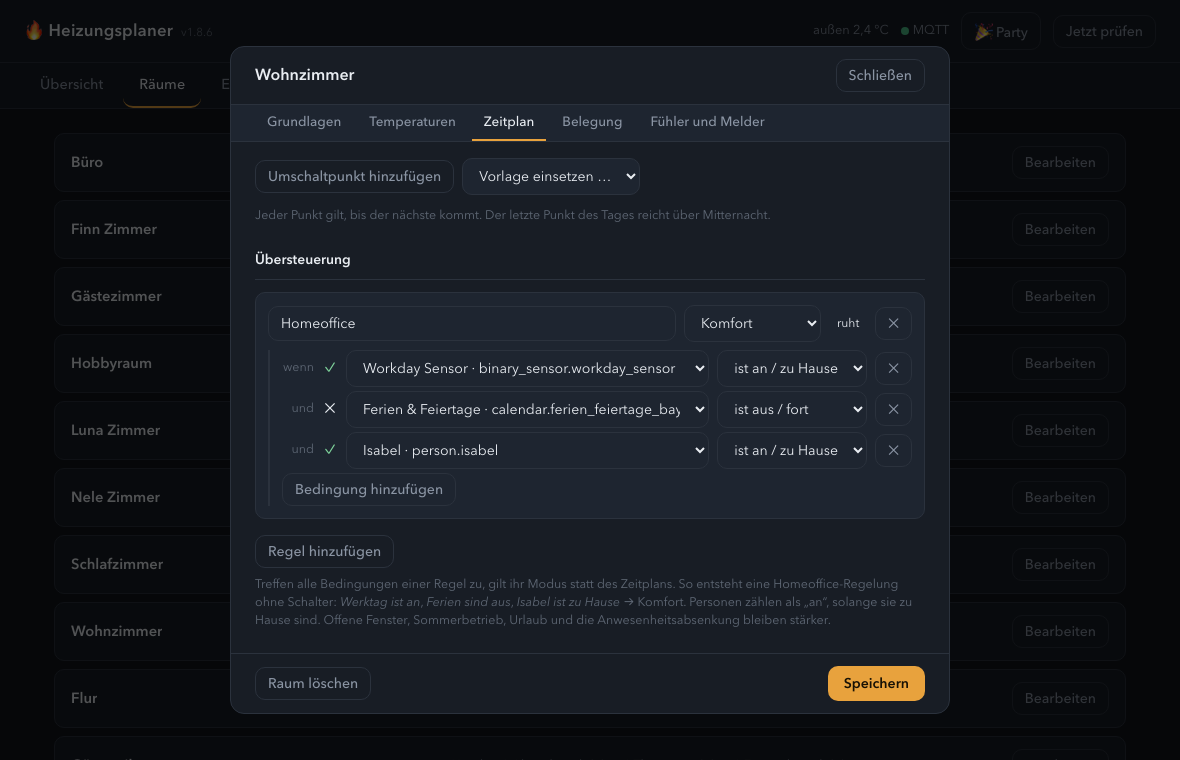
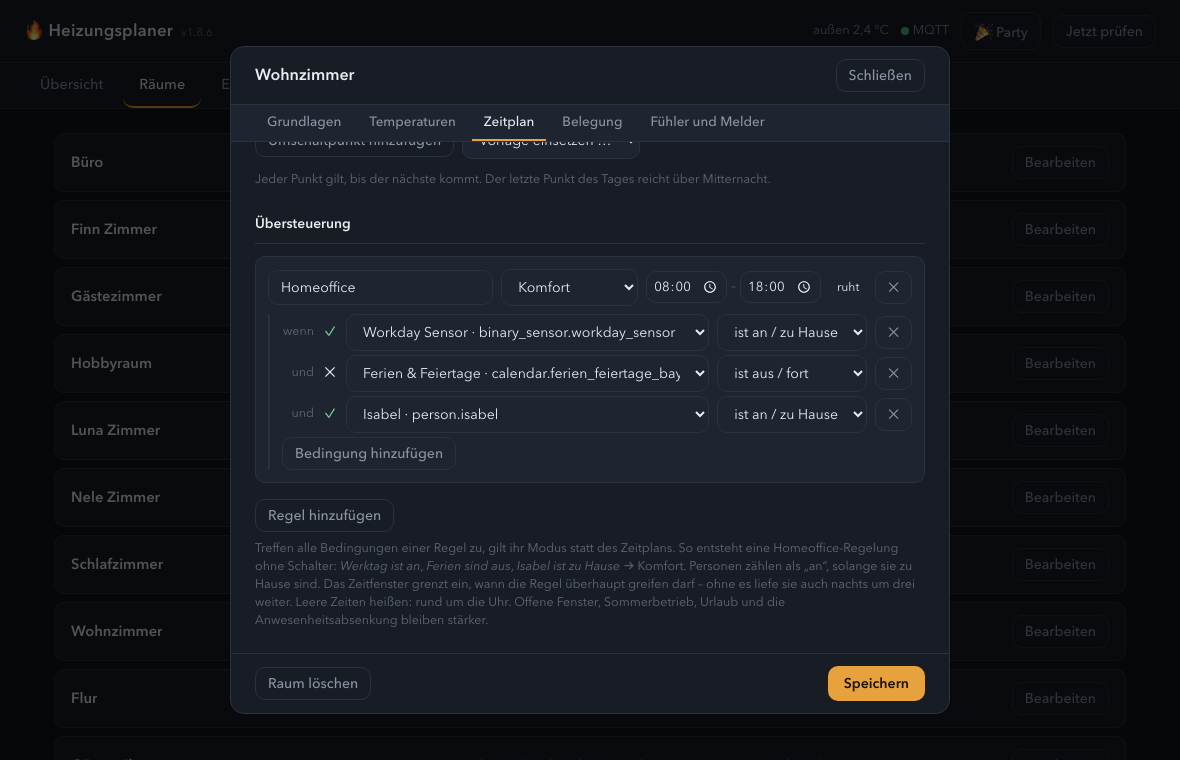
Zeitfenster für Übersteuerungsregeln
„Werktag, keine Ferien, Isabel ist zu Hause“ trifft auch nachts um drei zu.
Die Homeoffice-Regel hätte das Wohnzimmer damit rund um die Uhr auf Komfort
gehalten und die Nachtabsenkung ausgehebelt – ein Fehler im Entwurf, kein
Randfall.

Jede Regel bekommt deshalb ein Zeitfenster. Leer heißt rund um die Uhr, und
ein Fenster darf über Mitternacht reichen, wie ein Zeitplanpunkt auch. Neue
Regeln werden mit 08:00–18:00 vorgeschlagen.

Hält allein das Fenster eine Regel zurück, sagt sie das: „ruht – außerhalb
der Zeit“. Greift sie, nennt die Begründung das Ende: „Homeoffice (bis 18:00
Uhr) – komfort statt Zeitplan“.

diff --git a/heizungsplaner/frontend/index.html b/heizungsplaner/frontend/index.html
@@ -128,6 +128,8 @@
   .regel-zeile select:first-of-type{flex:1 1 auto; min-width:0; width:auto}
   .regel-zeile select + select{flex:none; width:auto}
   .regel-zeile button{flex:none}
+  .regel-zeit{display:inline-flex; align-items:center; gap:4px}
+  .regel-zeit input[type=time]{width:auto; padding:5px 6px; font-size:.82rem}
   .regel-lage{font-size:.76rem; padding:2px 8px; border-radius:999px;
     white-space:nowrap}
   .regel-lage.greift{background:rgba(90,190,120,.16); color:#7fd39b}
@@ -725,8 +727,11 @@
           einer Regel zu, gilt ihr Modus statt des Zeitplans. So entsteht eine
           Homeoffice-Regelung ohne Schalter: <em>Werktag ist an</em>, <em>Ferien
           sind aus</em>, <em>Isabel ist zu Hause</em> → Komfort. Personen zählen
-          als „an“, solange sie zu Hause sind. Offene Fenster, Sommerbetrieb,
-          Urlaub und die Anwesenheitsabsenkung bleiben stärker.</div>
+          als „an“, solange sie zu Hause sind. Das Zeitfenster grenzt ein, wann
+          die Regel überhaupt greifen darf – ohne es liefe sie auch nachts um
+          drei weiter. Leere Zeiten heißen: rund um die Uhr. Offene Fenster,
+          Sommerbetrieb, Urlaub und die Anwesenheitsabsenkung bleiben
+          stärker.</div>
       </div>
     </div>
 
@@ -1660,6 +1665,23 @@ function uebersteuerungZeichnen() {
     modus.value = regel.modus || 'komfort';
     modus.onchange = () => { regel.modus = modus.value; };
 
+    // Zeitfenster: leer heißt rund um die Uhr. Ohne das liefe eine
+    // Homeoffice-Regel auch nachts weiter – die Bedingungen treffen ja zu.
+    const zeitraum = document.createElement('span');
+    zeitraum.className = 'regel-zeit';
+    const von = document.createElement('input');
+    von.type = 'time'; von.value = regel.von || '';
+    von.title = 'ab wann die Regel greift – leer: rund um die Uhr';
+    const bis = document.createElement('input');
+    bis.type = 'time'; bis.value = regel.bis || '';
+    bis.title = 'bis wann die Regel greift';
+    von.onchange = () => { regel.von = von.value; uebersteuerungZeichnen(); };
+    bis.onchange = () => { regel.bis = bis.value; uebersteuerungZeichnen(); };
+    const strich = document.createElement('span');
+    strich.className = 'notiz';
+    strich.textContent = '–';
+    zeitraum.append(von, strich, bis);
+
     const weg = document.createElement('button');
     weg.className = 'leise';
     weg.textContent = '✕';
@@ -1670,10 +1692,17 @@ function uebersteuerungZeichnen() {
     const lage = document.createElement('span');
     lage.className = 'regel-lage';
     const stand = (regel.wenn || []).map(erfuellt);
-    const greift = stand.length && stand.every(x => x === true);
+    const jetztHM = new Date().toTimeString().slice(0, 5);
+    const imFenster = !regel.von || !regel.bis
+      || (regel.von <= regel.bis
+          ? (regel.von <= jetztHM && jetztHM < regel.bis)
+          : (jetztHM >= regel.von || jetztHM < regel.bis));
+    const greift = stand.length && stand.every(x => x === true) && imFenster;
     lage.classList.add(greift ? 'greift' : 'ruht');
-    lage.textContent = greift ? 'greift gerade' : 'ruht';
-    kopf.append(bezeichnung, modus, lage, weg);
+    lage.textContent = greift ? 'greift gerade'
+      : (!imFenster && stand.every(x => x === true) ? 'ruht – außerhalb der Zeit'
+                                                    : 'ruht');
+    kopf.append(bezeichnung, modus, zeitraum, lage, weg);
     karte.appendChild(kopf);
 
     const wenn = document.createElement('div');
@@ -1951,6 +1980,7 @@ $('btn-neuer-raum').onclick = () => raumOeffnen(null);
 $('btn-uebersteuerung-neu').onclick = () => {
   const erster = (entitaeten.schalter || [])[0];
   uebersteuerungEntwurf.push({name: '', modus: 'komfort',
+                              von: '08:00', bis: '18:00',
                               wenn: [{entity: erster ? erster.entity_id : '',
                                       zustand: 'an'}]});
   uebersteuerungZeichnen();

diff --git a/heizungsplaner/backend/regelung.py b/heizungsplaner/backend/regelung.py
@@ -182,7 +182,22 @@ def fenster_offen(raum: dict, states_index: dict, rz: dict, ist: float | None,
     return False, "", hinweis
 
 
-def _uebersteuerung(raum: dict, states_index: dict) -> dict | None:
+def _im_fenster(von: str | None, bis: str | None, jetzt: datetime) -> bool:
+    """Liegt ``jetzt`` im Zeitfenster? Ohne Fenster gilt: immer.
+
+    Ein Fenster darf über Mitternacht reichen (22:00–06:00) – dieselbe Regel
+    wie beim Zeitplan, wo der letzte Punkt des Tages in den nächsten reicht.
+    """
+    if not von or not bis:
+        return True
+    jetzt_hm = jetzt.strftime("%H:%M")
+    if von <= bis:
+        return von <= jetzt_hm < bis
+    return jetzt_hm >= von or jetzt_hm < bis
+
+
+def _uebersteuerung(raum: dict, states_index: dict,
+                    jetzt: datetime) -> dict | None:
     """Die erste zutreffende Übersteuerungsregel des Raumes.
 
     Eine Regel trifft zu, wenn **alle** ihre Bedingungen erfüllt sind – so
@@ -195,6 +210,8 @@ def _uebersteuerung(raum: dict, states_index: dict) -> dict | None:
     nichts Schlimmes passieren: Ohne Übersteuerung gilt schlicht der Zeitplan.
     """
     for eintrag in raum.get("uebersteuerung") or []:
+        if not _im_fenster(eintrag.get("von"), eintrag.get("bis"), jetzt):
+            continue
         namen = []
         for bedingung in eintrag.get("wenn") or []:
             entity_id = bedingung.get("entity")
@@ -209,8 +226,10 @@ def _uebersteuerung(raum: dict, states_index: dict) -> dict | None:
             if namen:
                 # Hat die Regel einen Namen, steht der im Protokoll – „Homeoffice“
                 # sagt mehr als die Aufzählung ihrer drei Bedingungen.
+                fenster = (f" (bis {eintrag['bis']} Uhr)"
+                           if eintrag.get("von") and eintrag.get("bis") else "")
                 return {"modus": eintrag.get("modus", "komfort"),
-                        "name": eintrag.get("name") or " · ".join(namen)}
+                        "name": (eintrag.get("name") or " · ".join(namen)) + fenster}
     return None
 
 
@@ -350,7 +369,7 @@ def entscheide(raum: dict, rz: dict, umgebung: dict) -> dict:
     # ersetzt den Modus des Plans; Anwesenheit und Heizkurve gelten weiter.
     # Das ist Absicht: Wer den Schalter anlässt und wegfährt, heizt kein
     # leeres Haus, und die Absenkung eines Fensters bleibt stärker.
-    uebersteuerung = _uebersteuerung(raum, states_index)
+    uebersteuerung = _uebersteuerung(raum, states_index, jetzt)
     if uebersteuerung:
         modus = uebersteuerung["modus"]
         basis = zp.modus_temperatur(raum, modus, frostschutz)

diff --git a/heizungsplaner/tests/test_logik.py b/heizungsplaner/tests/test_logik.py
@@ -316,6 +316,39 @@ def lage_homeoffice(werktag=True, ferien=False, isabel="home"):
     return regelung.entscheide(r, {"temperaturquelle": "thermostate"},
                                umgebung(montag.replace(hour=9), states_index=idx))
 
+# Ohne Zeitfenster liefe eine Homeoffice-Regel auch nachts um drei weiter -
+# die Bedingungen treffen ja weiter zu.
+def lage_fenster(stunde, von="08:00", bis="18:00"):
+    r = store.validate_raum({**wohnzimmer, "uebersteuerung": [{
+        "name": "Homeoffice", "modus": "komfort", "von": von, "bis": bis,
+        "wenn": [{"entity": "person.isabel", "zustand": "an"}]}],
+        "zeitplan": [{"start": "21:00", "modus": "nacht", "gilt": "immer",
+                      "tage": ["mon","tue","wed","thu","fri","sat","sun"]}]})
+    idx = {"climate.a": {"entity_id": "climate.a", "state": "heat",
+                         "attributes": {"current_temperature": 20.0, "temperature": 19.0,
+                                        "min_temp": 5, "max_temp": 30,
+                                        "hvac_modes": ["off", "heat"]}},
+           "person.isabel": {"entity_id": "person.isabel", "state": "home",
+                             "attributes": {"friendly_name": "Isabel"}}}
+    return regelung.entscheide(r, {"temperaturquelle": "thermostate"},
+                               umgebung(montag.replace(hour=stunde), states_index=idx))
+
+pruefe(lage_fenster(10)["zustand"] == "komfort",
+       "im Fenster greift die Regel")
+pruefe(lage_fenster(3)["zustand"] == "nacht",
+       f"nachts greift sie nicht ({lage_fenster(3)['zustand']})")
+pruefe(lage_fenster(20)["zustand"] == "nacht",
+       f"nach Feierabend greift sie nicht ({lage_fenster(20)['zustand']})")
+pruefe("bis 18:00 Uhr" in lage_fenster(10)["begruendung"],
+       f"die Begruendung nennt das Ende ({lage_fenster(10)['begruendung']})")
+# Ein Fenster ueber Mitternacht - fuer ein Schlafzimmer etwa
+pruefe(lage_fenster(23, von="22:00", bis="06:00")["zustand"] == "komfort",
+       "ein Fenster ueber Mitternacht greift abends")
+pruefe(lage_fenster(3, von="22:00", bis="06:00")["zustand"] == "komfort",
+       "und noch am naechsten Morgen")
+pruefe(lage_fenster(12, von="22:00", bis="06:00")["zustand"] != "komfort",
+       "tagsueber aber nicht")
+
 e = lage_homeoffice()
 pruefe(e["zustand"] == "komfort" and "Isabel" in e["begruendung"],
        f"Werktag + keine Ferien + Isabel daheim -> komfort ({e['begruendung']})")

diff --git a/heizungsplaner/backend/store.py b/heizungsplaner/backend/store.py
@@ -284,10 +284,24 @@ def validate_raum(raum: dict, vorhandene_id: str | None = None) -> dict:
             if zustand not in ZUSTAENDE:
                 raise ValidationError(f"Unbekannte Bedingung {zustand!r}")
             bedingungen.append({"entity": entity, "zustand": zustand})
+        # Zeitfenster: leer heißt „rund um die Uhr“. Ohne Fenster hielte eine
+        # Homeoffice-Regel den Raum auch nachts um drei auf Komfort – die
+        # Bedingungen treffen ja weiter zu.
+        von = str(eintrag.get("von") or "").strip()
+        bis = str(eintrag.get("bis") or "").strip()
+        for wert in (von, bis):
+            if wert and not _TIME_RE.match(wert):
+                raise ValidationError(
+                    f"Übersteuerung: ungültige Uhrzeit {wert!r} (erwartet HH:MM)")
+        if bool(von) != bool(bis):
+            raise ValidationError("Übersteuerung: Zeitfenster braucht Anfang und Ende")
+        if von and von == bis:
+            raise ValidationError("Übersteuerung: Anfang und Ende sind gleich")
+
         if bedingungen:
             uebersteuerung.append({
                 "name": str(eintrag.get("name") or "").strip()[:40],
-                "modus": modus, "wenn": bedingungen})
+                "modus": modus, "von": von, "bis": bis, "wenn": bedingungen})
 
     karenz = raum.get("karenz_min")
     if karenz in (None, "", "null"):

diff --git a/heizungsplaner/backend/version.py b/heizungsplaner/backend/version.py
@@ -1,1 +1,1 @@
-VERSION = "1.11.2"
+VERSION = "1.12.0"

diff --git a/heizungsplaner/DOCS.md b/heizungsplaner/DOCS.md
@@ -220,6 +220,8 @@ jemand zu Hause, soll es warm bleiben – ohne Schalter, ohne Zeitplanumbau:
 | keine Ferien | `calendar.ferien_feiertage_bayern` | ist aus |
 | Isabel ist da | `person.isabel` | ist an |
 
+dazu das Zeitfenster **08:00–18:00**.
+
 Ergebnis: **Komfort** statt Eco. Trifft eine der drei nicht zu, führt wieder
 der Zeitplan.
 
@@ -227,6 +229,12 @@ Als Bedingung taugt alles, was an oder aus sein kann: Schalter und Helfer,
 Melder, Kalender (`on`, solange ein Termin läuft) und Personen. **Eine Person
 zählt als „an", solange sie zu Hause ist** – wer in einer anderen Zone steht,
 etwa im Büro, zählt als fort.
+
+Das **Zeitfenster** grenzt ein, wann die Regel überhaupt greifen darf. Ohne
+es liefe die Homeoffice-Regel auch nachts um drei weiter – Werktag, keine
+Ferien und Isabel zu Hause treffen ja weiterhin zu, und das Wohnzimmer stünde
+statt auf Nacht auf Komfort. Leere Zeiten heißen: rund um die Uhr. Ein Fenster
+darf über Mitternacht reichen (22:00–06:00), wie ein Zeitplanpunkt auch.
 
 Die **Bezeichnung** der Regel ist frei. Sie steht später in der Begründung und
 im Protokoll: „Homeoffice – komfort statt Zeitplan" ist dort lesbarer als die

diff --git a/heizungsplaner/CHANGELOG.md b/heizungsplaner/CHANGELOG.md
@@ -1,5 +1,14 @@
 # Änderungen
 
+## 1.12.0
+
+- **Zeitfenster je Übersteuerungsregel.** Ohne eines liefe eine
+  Homeoffice-Regel auch nachts um drei weiter – ihre Bedingungen treffen ja
+  weiterhin zu. Neue Regeln bekommen 08:00–18:00 vorgeschlagen; leere Zeiten
+  heißen rund um die Uhr, und ein Fenster darf über Mitternacht reichen.
+- Die Regel zeigt „ruht – außerhalb der Zeit“, wenn allein das Fenster sie
+  gerade zurückhält.
+
 ## 1.11.2
 
 - **Man sieht jetzt, ob eine Übersteuerungsregel greift.** Die Regel zeigt
